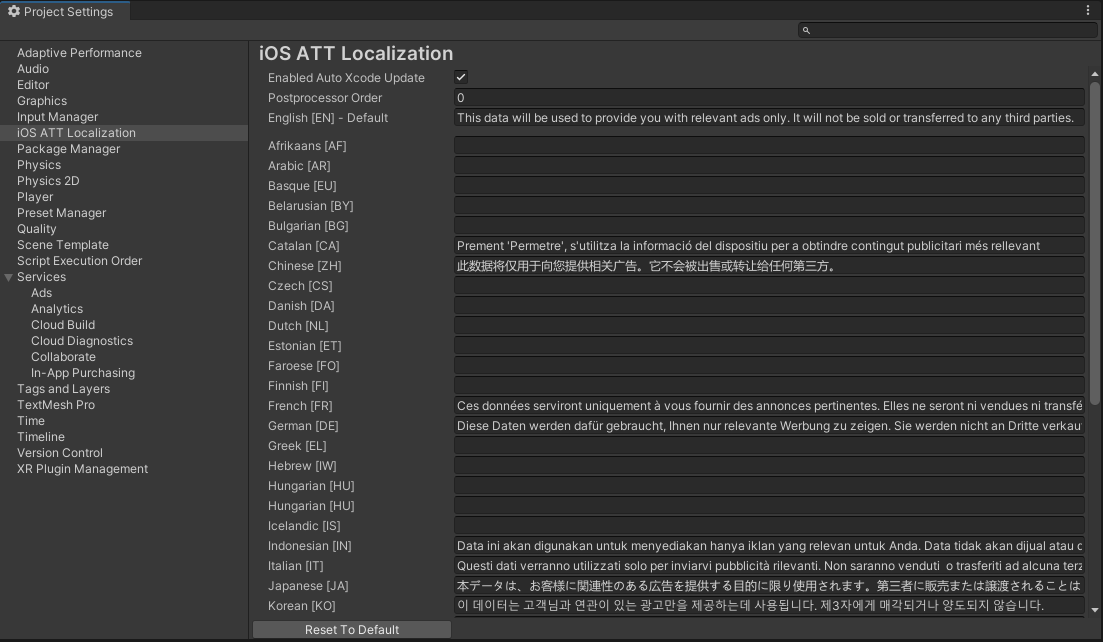
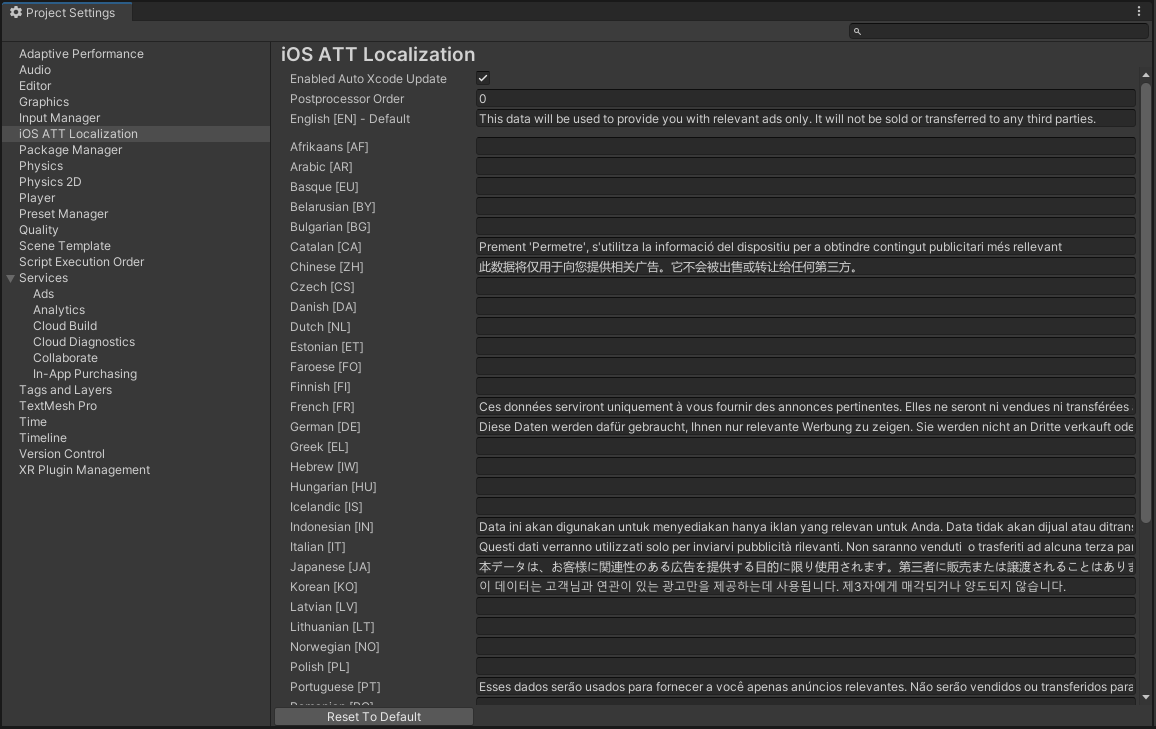
small fix to skip Obsolete languages

diff --git a/Editor/TransparencyDescriptionsSettingsProvider.cs b/Editor/TransparencyDescriptionsSettingsProvider.cs
@@ -8,6 +8,8 @@ namespace Appegy.Att.Localization
 {
     internal static class TransparencyDescriptionsSettingsProvider
     {
+        private static HashSet<SystemLanguage> _checkedLanguages = new HashSet<SystemLanguage>();
+        
         [SettingsProvider]
         public static SettingsProvider CreateDeviceSimulatorSettingsProvider()
         {
@@ -30,19 +32,21 @@ namespace Appegy.Att.Localization
                     }
                     GUI.enabled = EnabledAutoXcodeUpdate && !string.IsNullOrEmpty(DefaultDescription);
                     EditorGUILayout.Space();
+                    
+                    _checkedLanguages.Clear();
                     foreach (SystemLanguage language in Enum.GetValues(typeof(SystemLanguage)))
                     {
+                        if (_checkedLanguages.Contains(language))
+                        {
+                            continue;
+                        }
+                        _checkedLanguages.Add(language);
                         switch (language)
                         {
                             case Default:
                             case SystemLanguage.Unknown:
                                 continue;
                         }
-                        if (language.ToString() == "Hugarian")
-                        {
-                            continue;
-                        }
-
                         var translation = GetAttDescription(language);
                         var newValue = EditorGUILayout.TextField($"{language} [{language.GetLocalCodeIOS()}]", translation);
                         if (translation != newValue)

diff --git a/Editor/TypesExtensions.cs b/Editor/TypesExtensions.cs
@@ -1,4 +1,5 @@
-using System.Text;
+using System;
+using System.Text;
 using UnityEngine;
 
 namespace Appegy.Att.Localization
